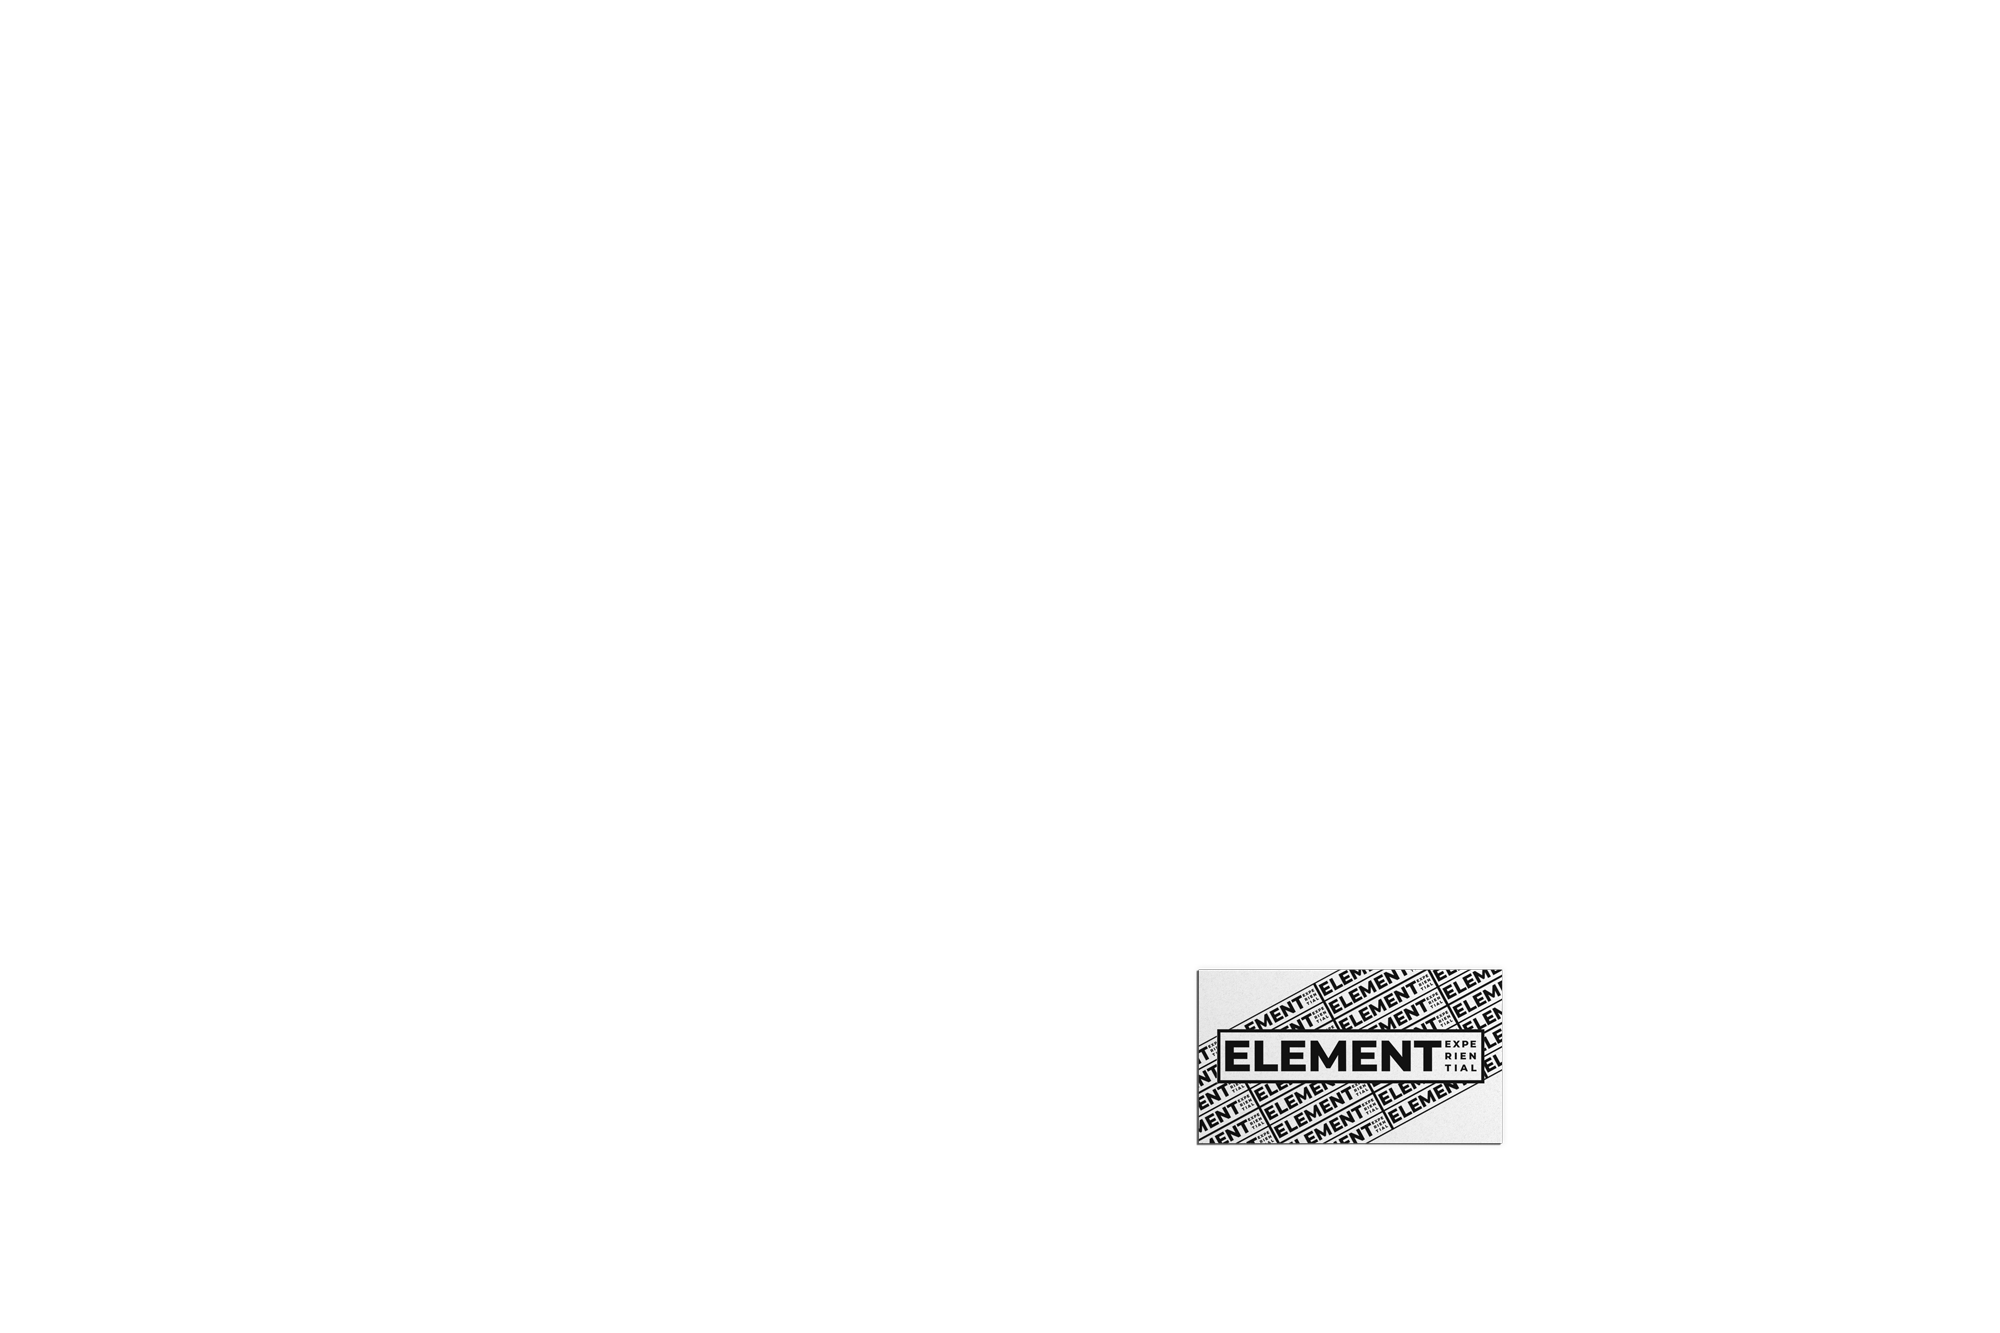
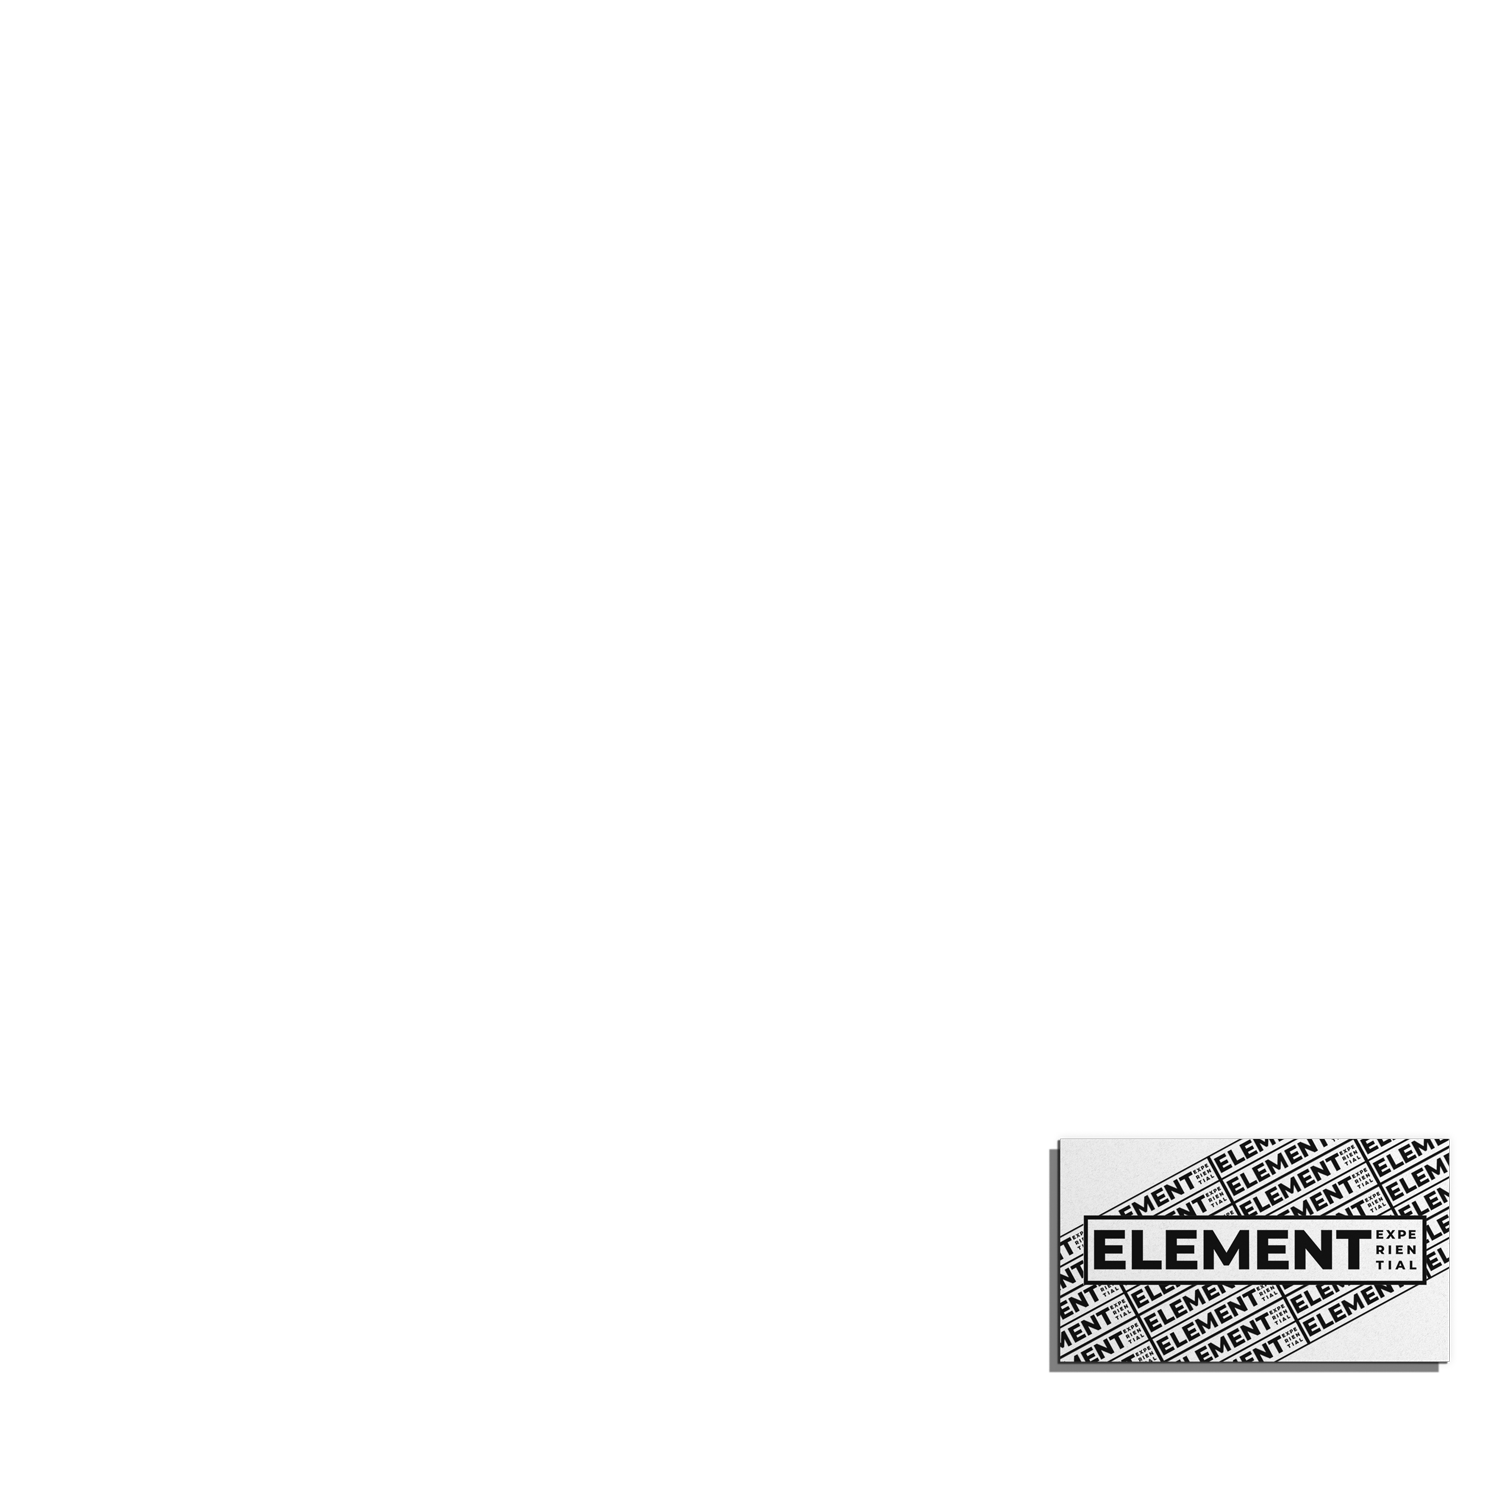
Resized images for branding area

Changed region(s): [[0.5827, 0.7074, 0.9813, 0.9227]]

diff --git a/clientTemplate/client.html b/clientTemplate/client.html
@@ -133,10 +133,10 @@
         </div>
 
         <div class="wWorkArea">
-          <img src="assets/branding/elementBrandingPaper.png" alt="FRNDS Agency Branding for Elemenet Exeriential">
-          <img src="assets/branding/elementBrandingBCard1.png" alt="FRNDS Agency Branding for Elemenet Exeriential">
-          <img src="assets/branding/elementBrandingBCard2.png" alt="FRNDS Agency Branding for Elemenet Exeriential">
-          <img src="assets/branding/elementBrandingPhone.png" alt="FRNDS Agency Branding for Elemenet Exeriential">
+          <img id="brandingPaper" class="brandingImage" src="assets/branding/elementBrandingPaper.png" alt="FRNDS Agency Branding for Elemenet Exeriential">
+          <img class="brandingImage" src="assets/branding/elementBrandingBCard1.png" alt="FRNDS Agency Branding for Elemenet Exeriential">
+          <img class="brandingImage" src="assets/branding/elementBrandingBCard2.png" alt="FRNDS Agency Branding for Elemenet Exeriential">
+          <img class="brandingImage" src="assets/branding/elementBrandingPhone.png" alt="FRNDS Agency Branding for Elemenet Exeriential">
         </div>
       </div>
     </div>

diff --git a/clientTemplate/css/style.scss b/clientTemplate/css/style.scss
@@ -109,14 +109,6 @@ body{
             background: $white;
             border-radius: 3px;
         }
-
-        // span:nth-child(1){
-        //     background: $pink;
-        // }
-        // span:nth-child(2){
-        //     background: $blue;
-        // }
-        
     }
 
     .offPageMenu{
@@ -345,7 +337,7 @@ body{
                 width: 100%;
                 height: 15%;
                 box-sizing: border-box;
-                padding: 0em 1em;
+                padding: 0em 1.5em;
 
                 h3{
                     font-weight: $regular;
@@ -359,9 +351,11 @@ body{
                 justify-content: center;
                 overflow: hidden;
 
-                img{
-                    width: 110%;
+                .brandingImage{
+                    max-width: 100%;
                     position: absolute;
+                    height: auto;
+                    width: auto
                 }
             }
         }

diff --git a/clientTemplate/css/style.css b/clientTemplate/css/style.css
@@ -385,7 +385,7 @@ body .workArea1 .wContent .wTextArea {
   height: 15%;
   -webkit-box-sizing: border-box;
           box-sizing: border-box;
-  padding: 0em 1em;
+  padding: 0em 1.5em;
 }
 
 body .workArea1 .wContent .wTextArea h3 {
@@ -404,8 +404,10 @@ body .workArea1 .wContent .wWorkArea {
   overflow: hidden;
 }
 
-body .workArea1 .wContent .wWorkArea img {
-  width: 110%;
+body .workArea1 .wContent .wWorkArea .brandingImage {
+  max-width: 100%;
   position: absolute;
+  height: auto;
+  width: auto;
 }
 /*# sourceMappingURL=style.css.map */

diff --git a/clientTemplate/js/script.js b/clientTemplate/js/script.js
@@ -28,6 +28,8 @@ var toStart = function(){
 $(document).ready(function(){
     
     toEnd();
+
+    TweenMax.from("#brandingPaper", 3,  {opacity: 0, y: 200});
 });
 
 // Mobile Menu Functionality
